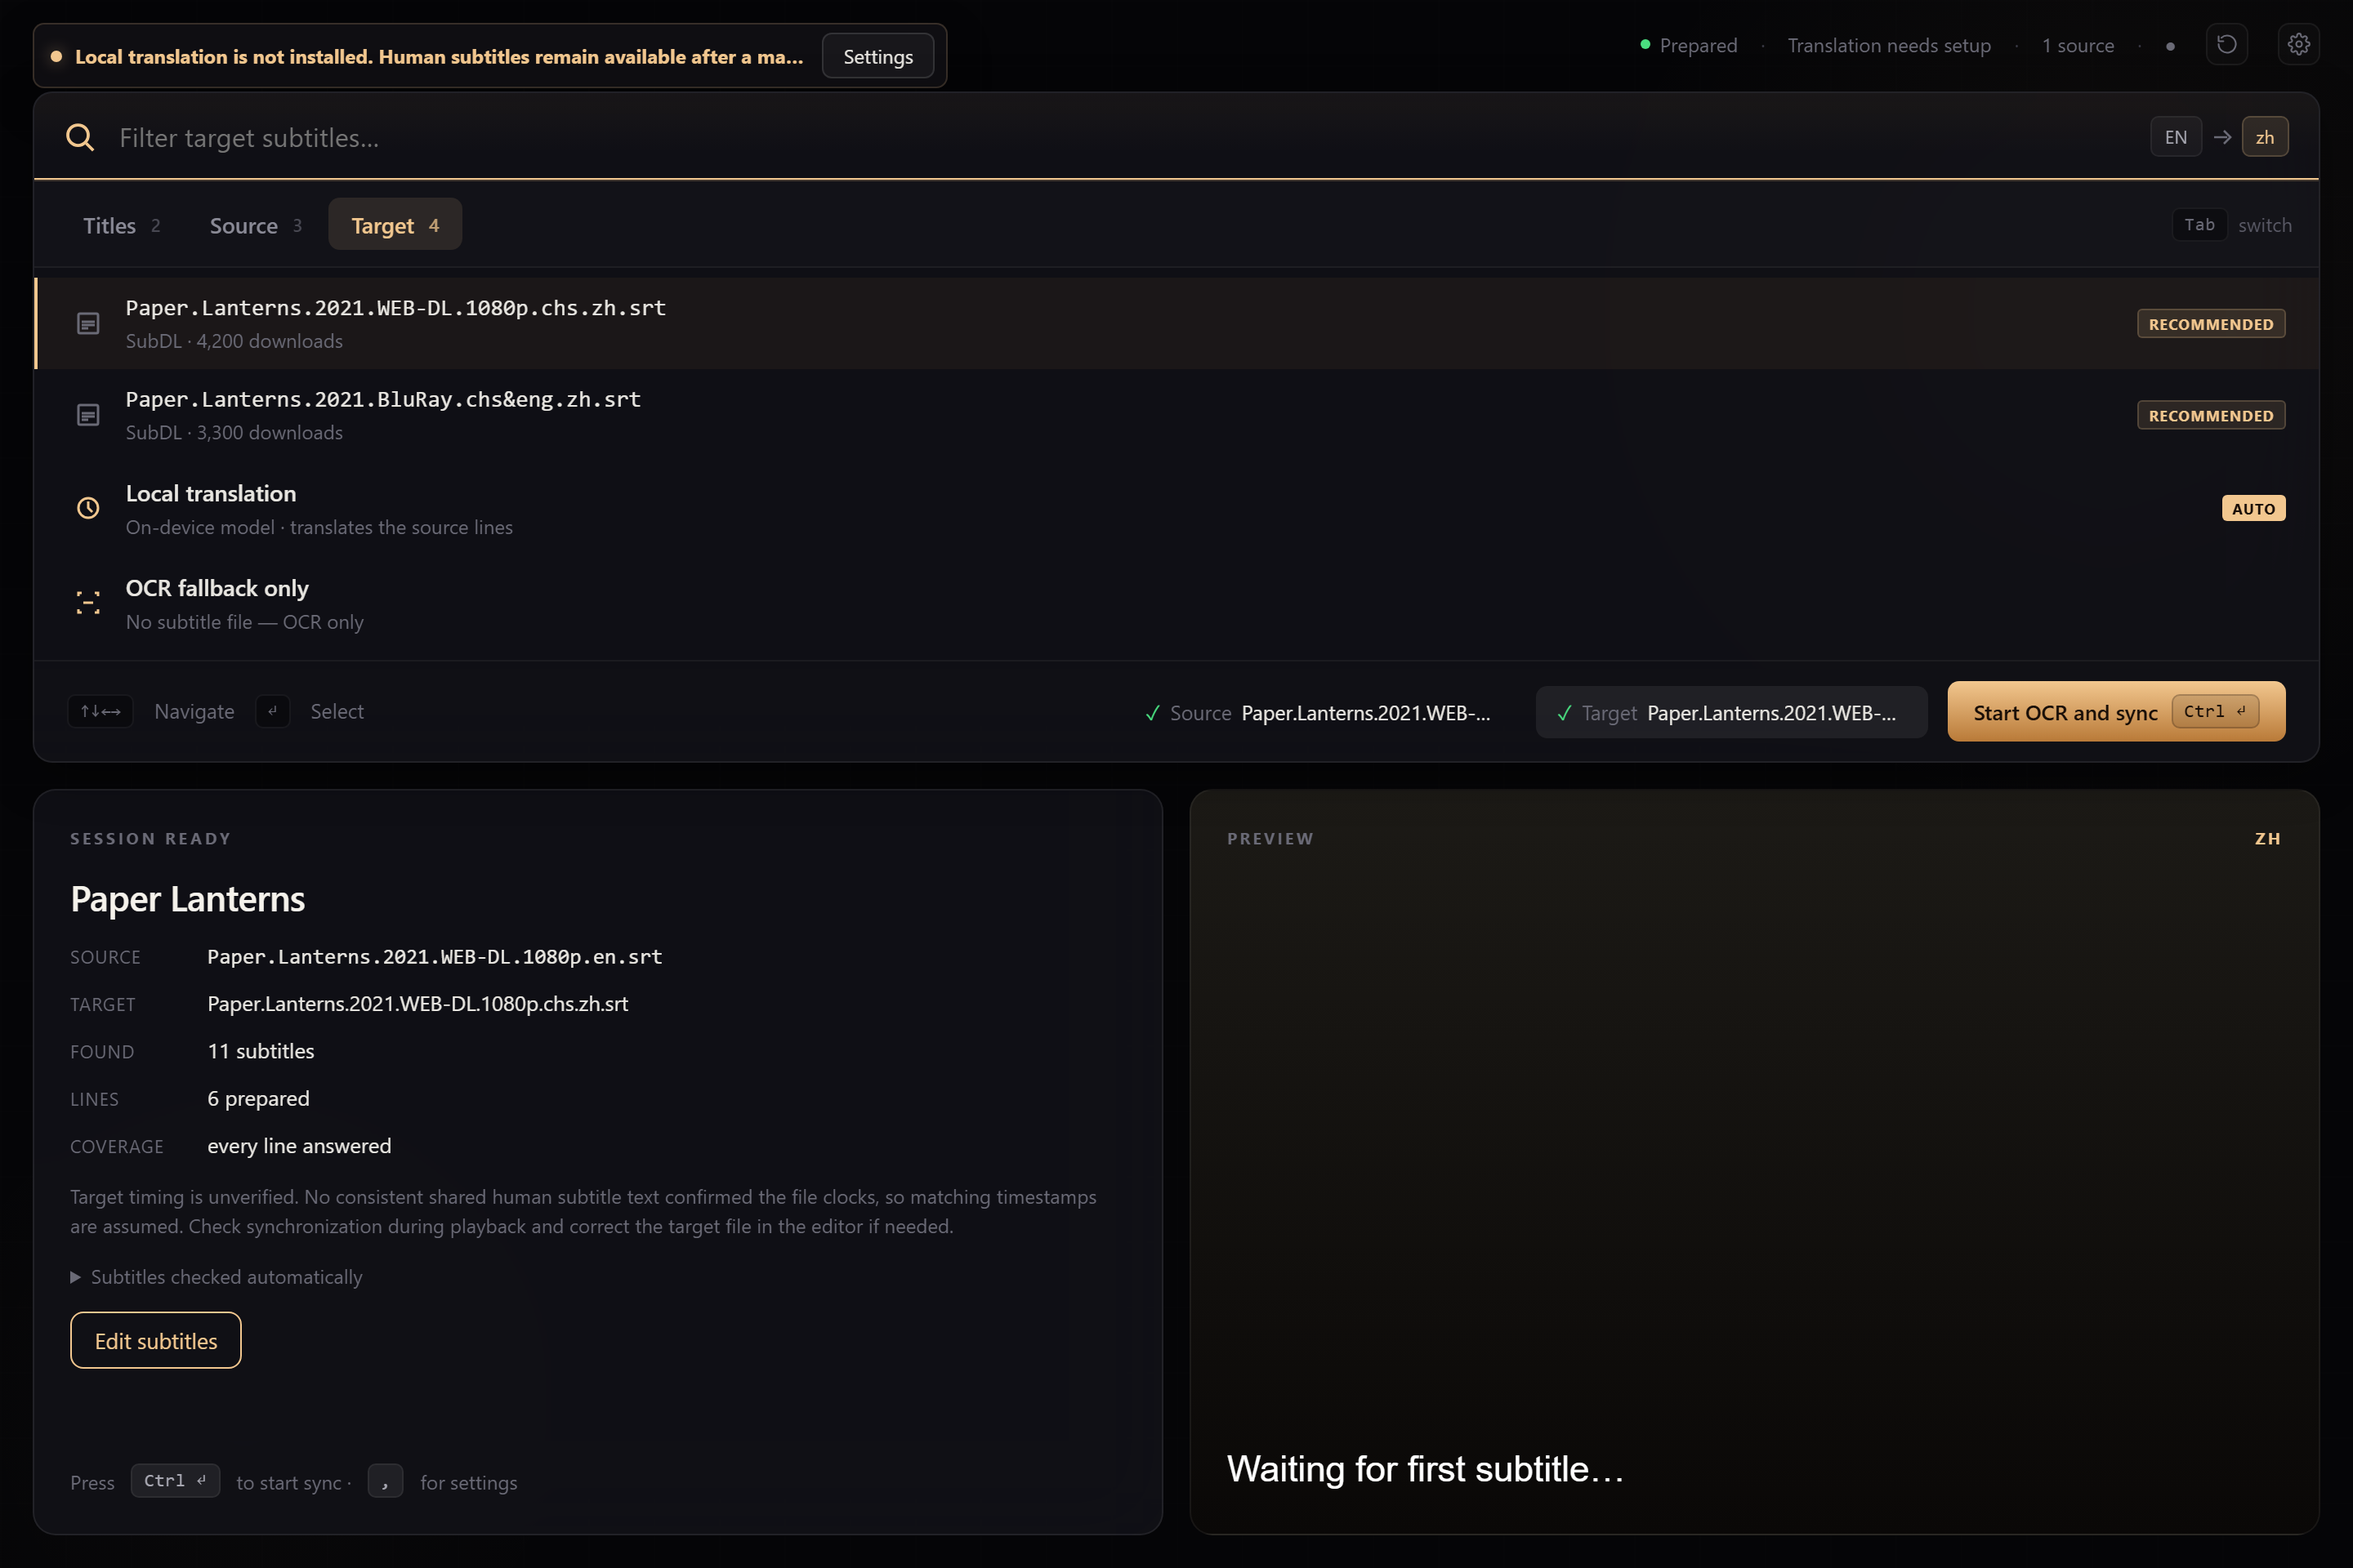
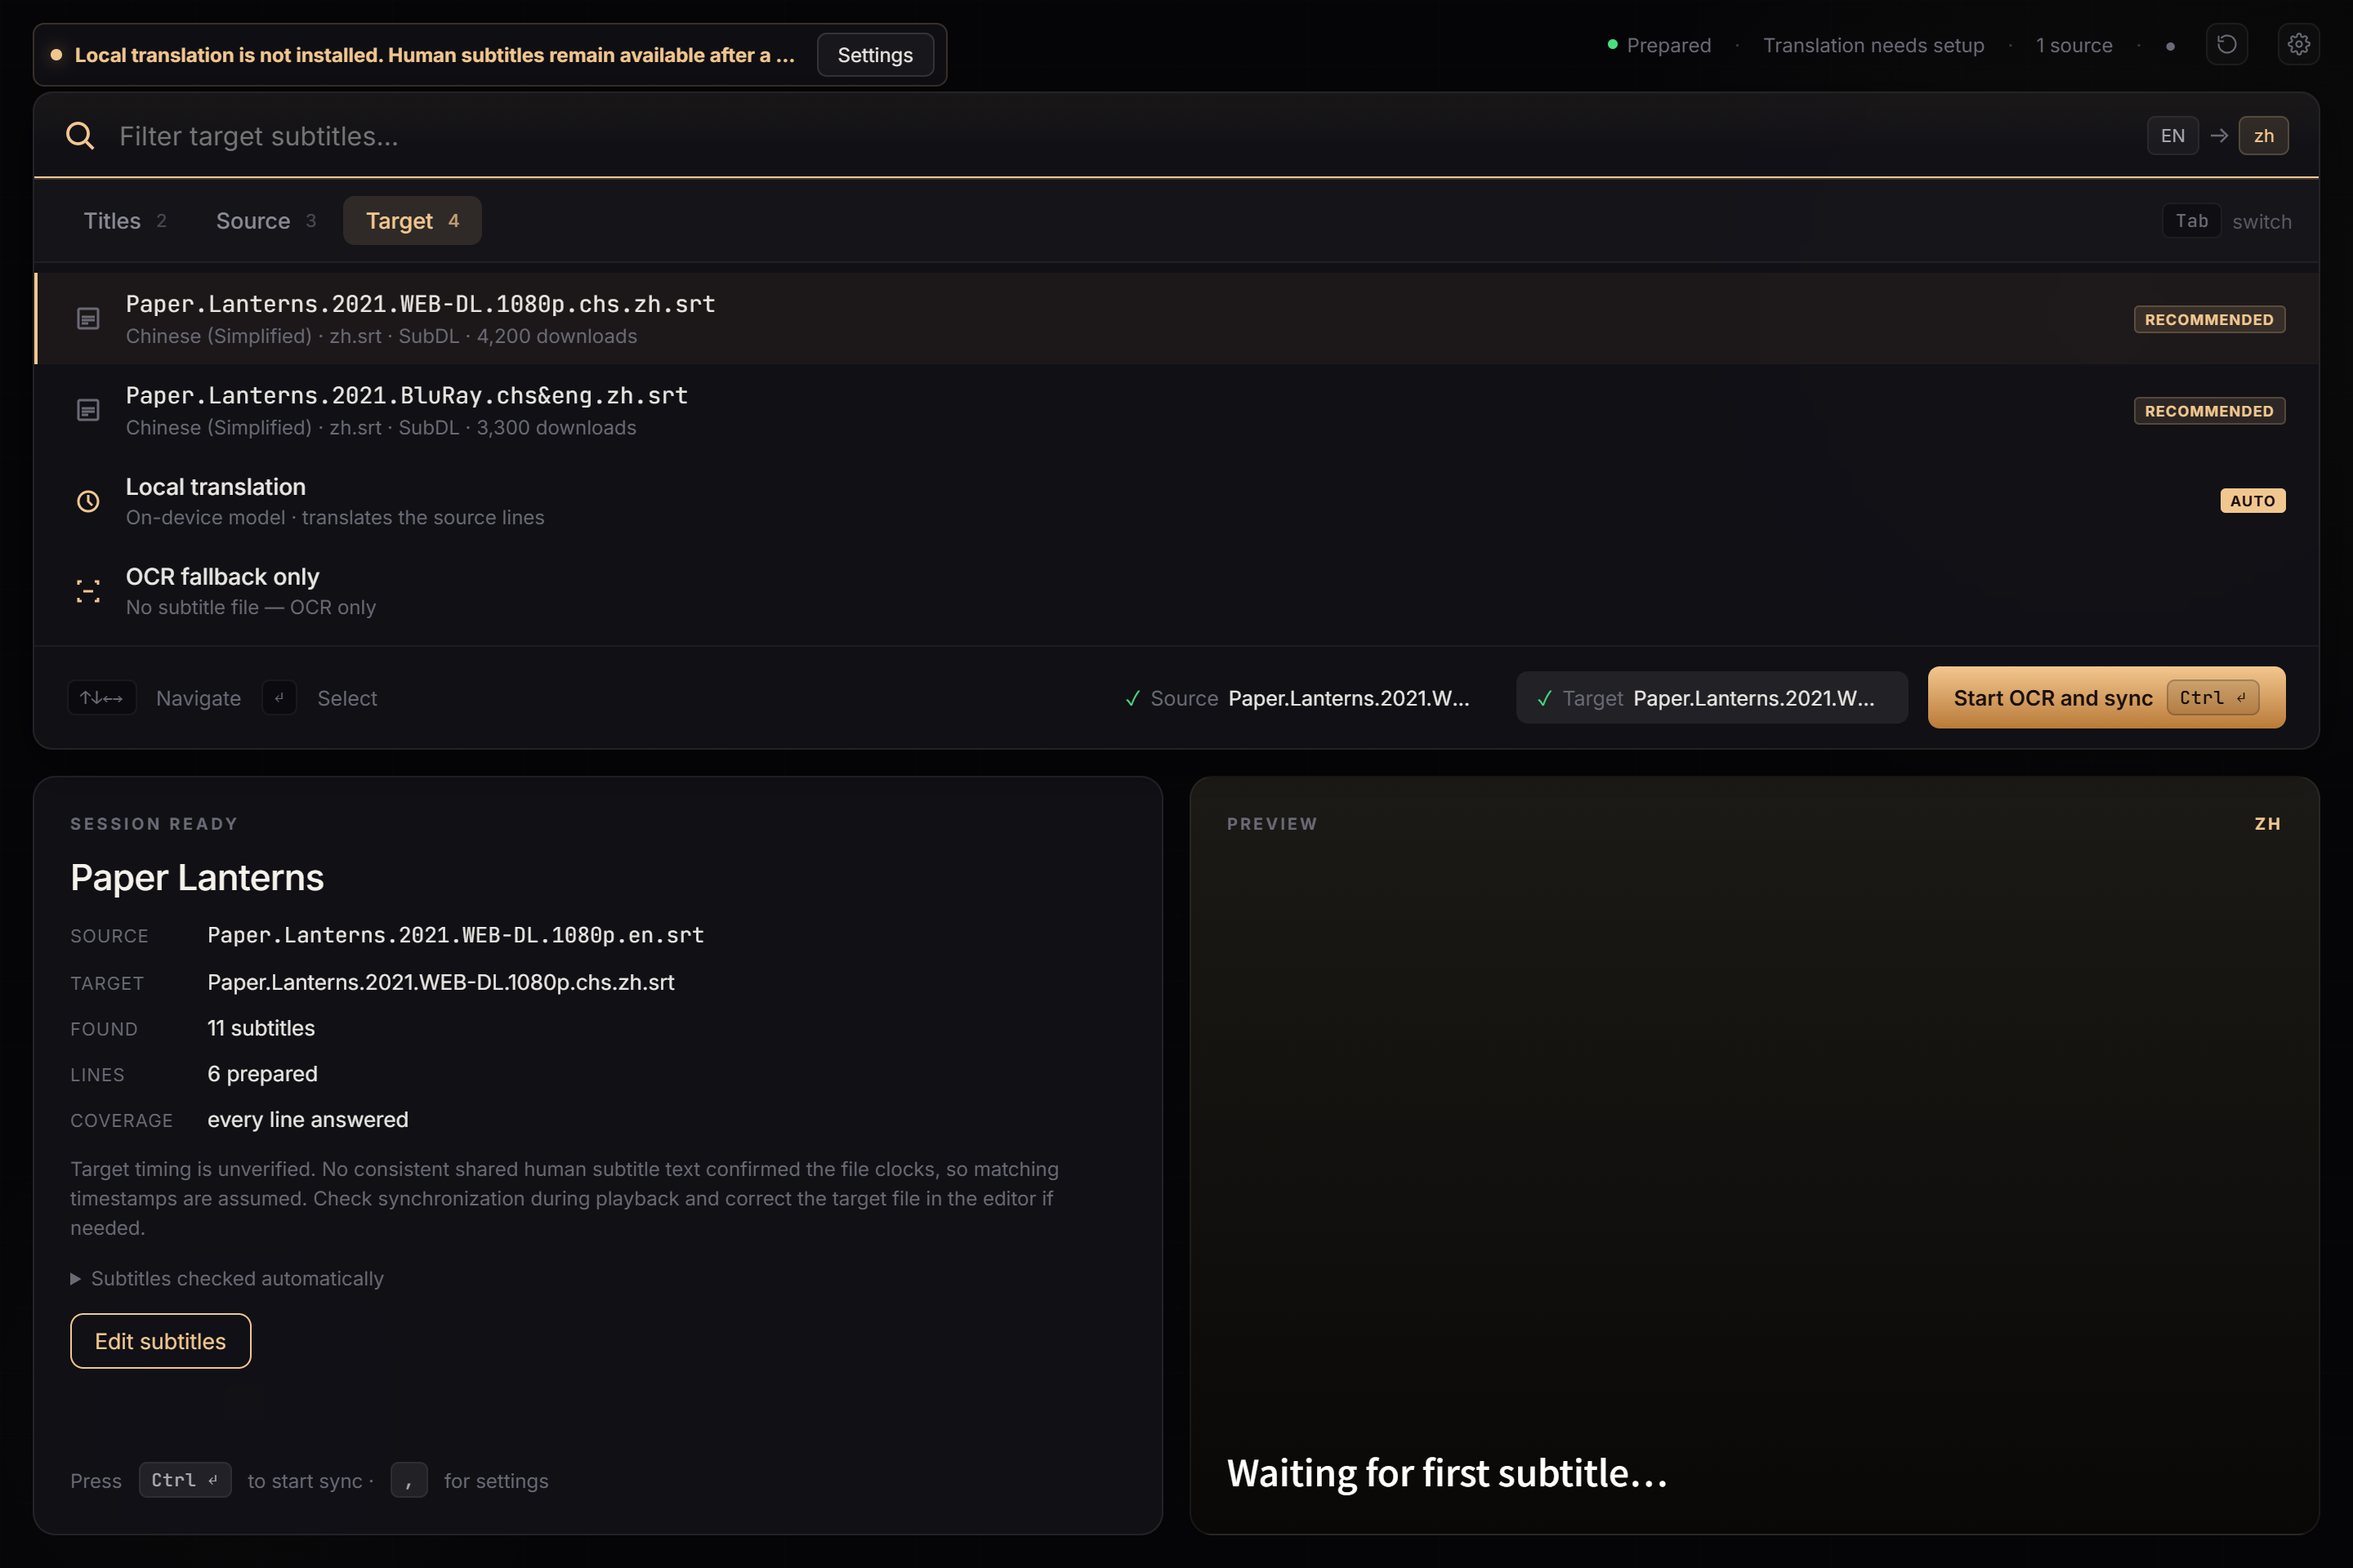
docs(site): update Sub 2 for v0.3.0

diff --git a/site/README.md b/site/README.md
@@ -78,7 +78,8 @@ published release.
   that table, and merging it redeploys the site. Update the copy when the release
   changes what the page says.
 - **Sub 2 release.** Update `SUB2_VERSION` in `render.mjs` and the Sub 2 copy.
-  When the studio looks different, replace `assets/sub2-studio.png`: in a
+  When the studio looks different, replace `assets/sub2-studio.png` and
+  `assets/sub2-studio.zh-CN.png`: in a
   checkout of the released tag, run that repository's
   `docs/audit-20260926/ui/demo_server.py`, prepare the sample session, and
   capture the page at 1440 × 960 with a device scale factor of 2. The demo
